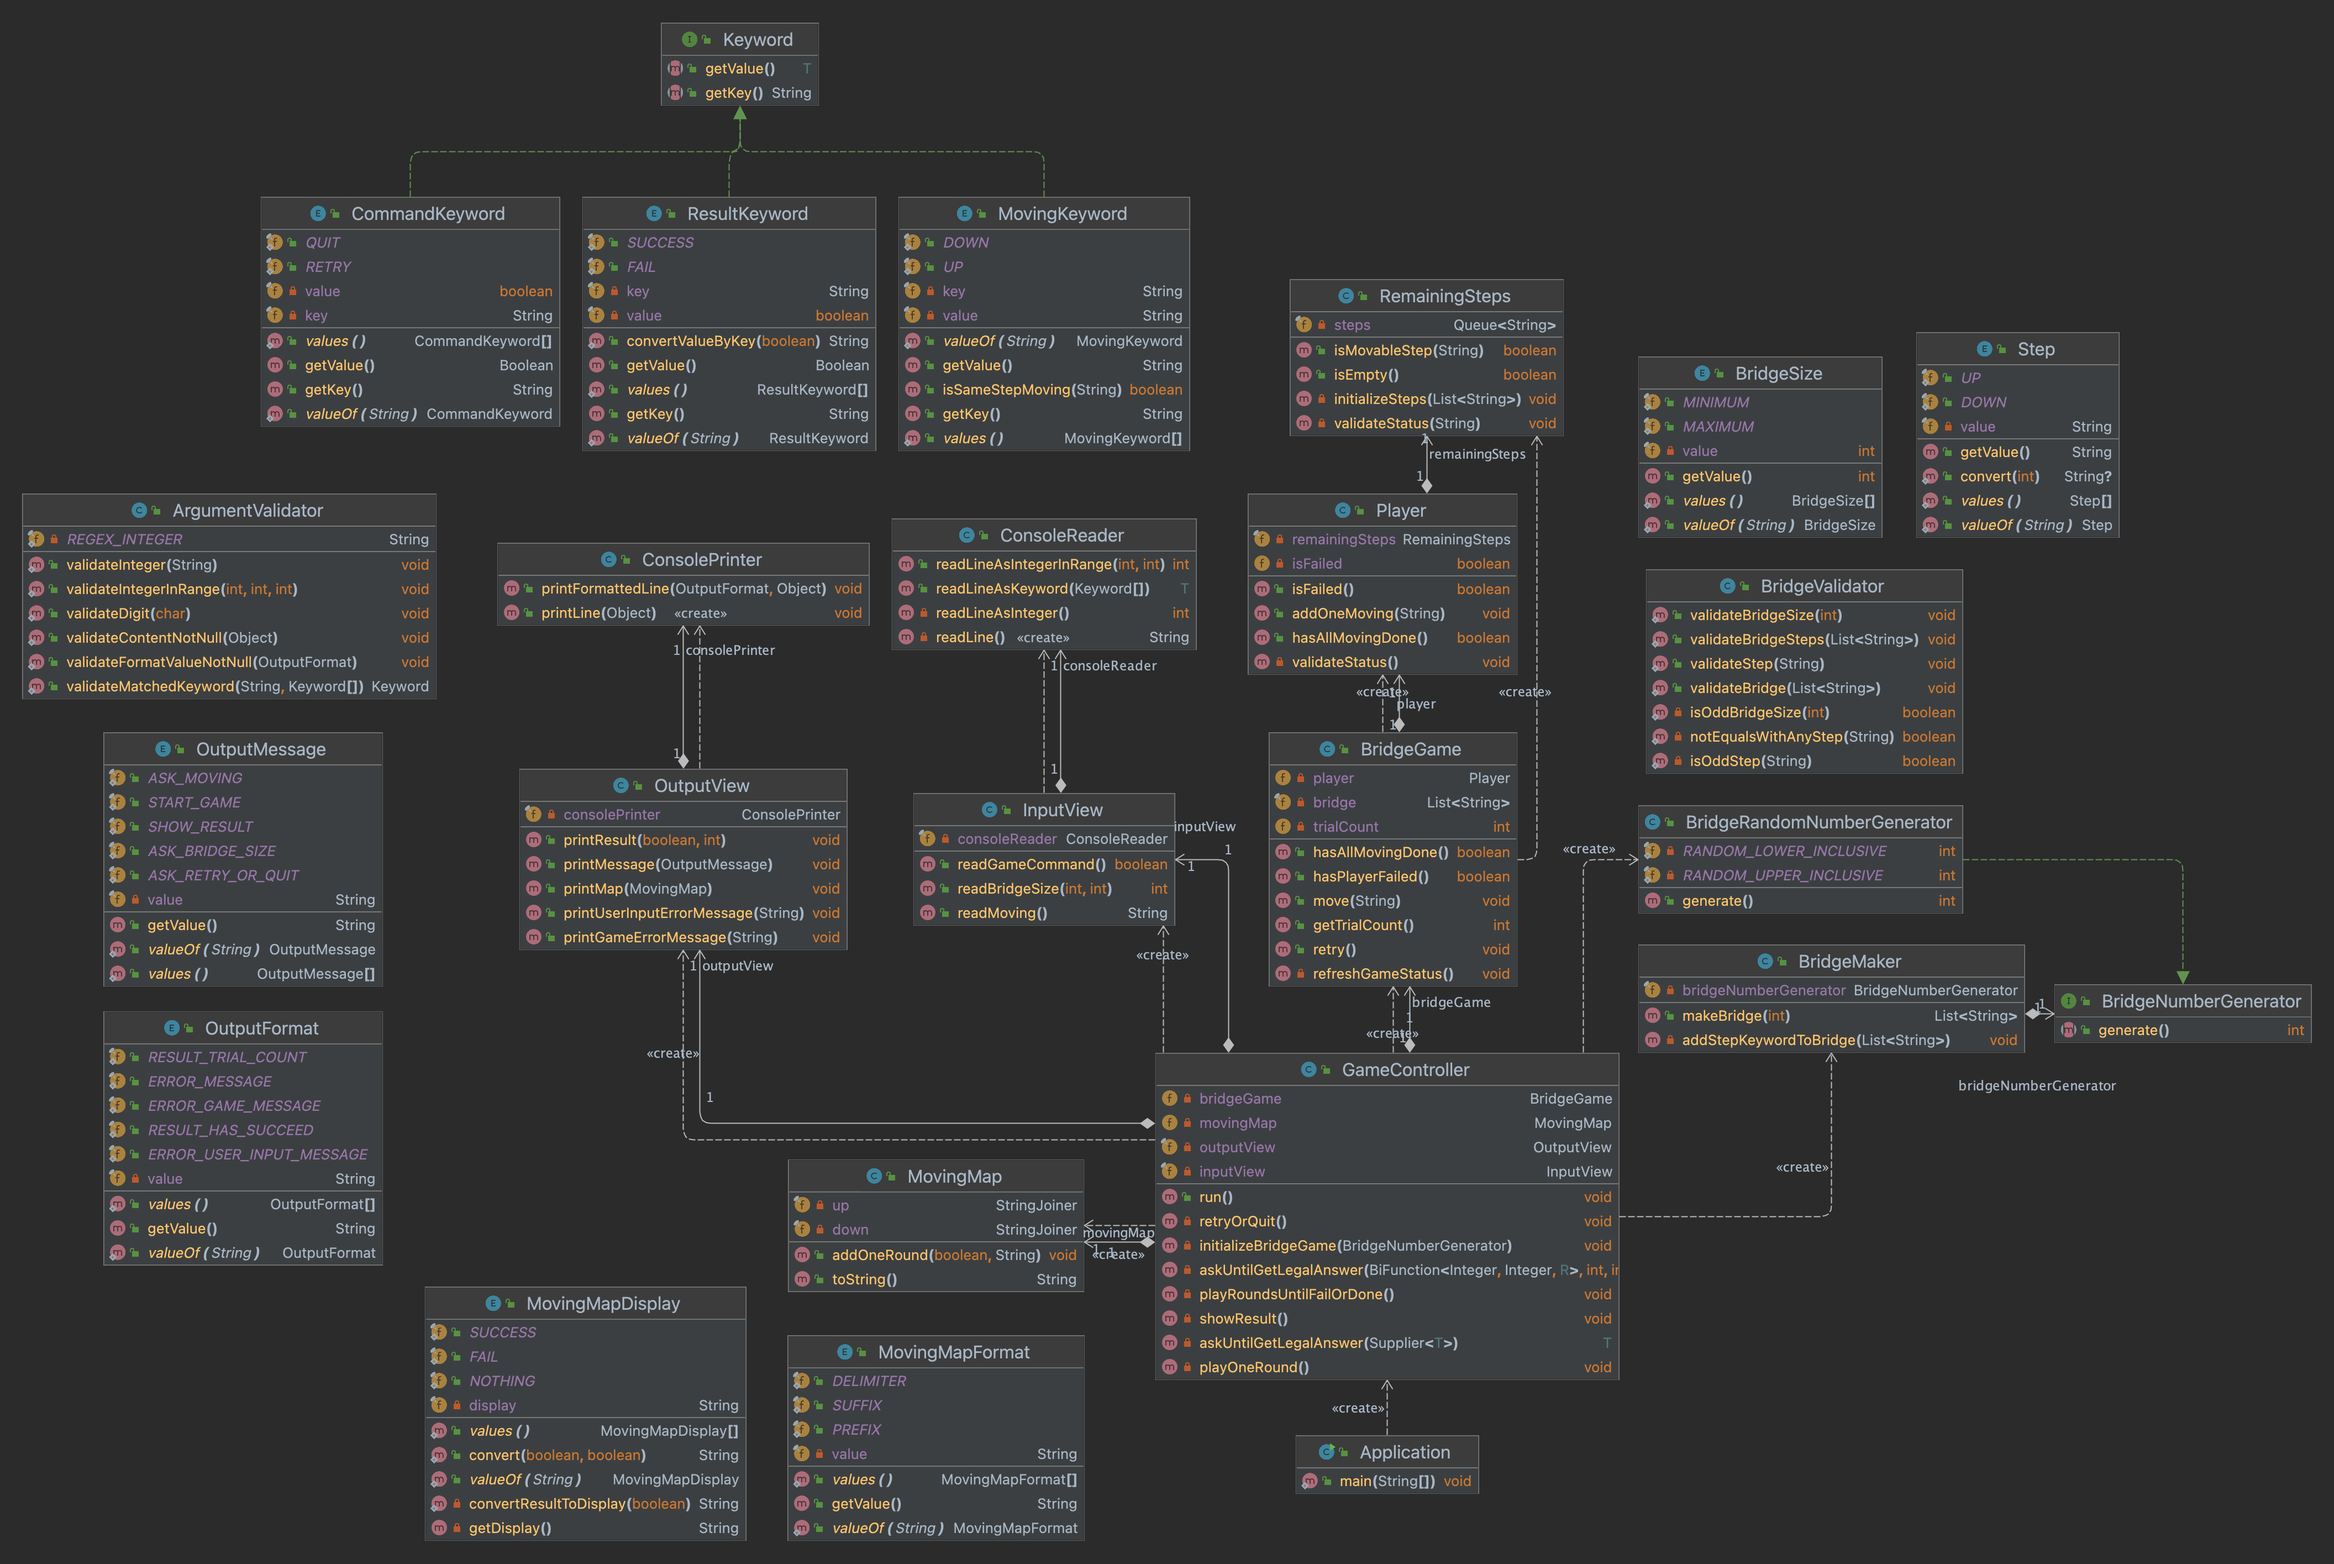
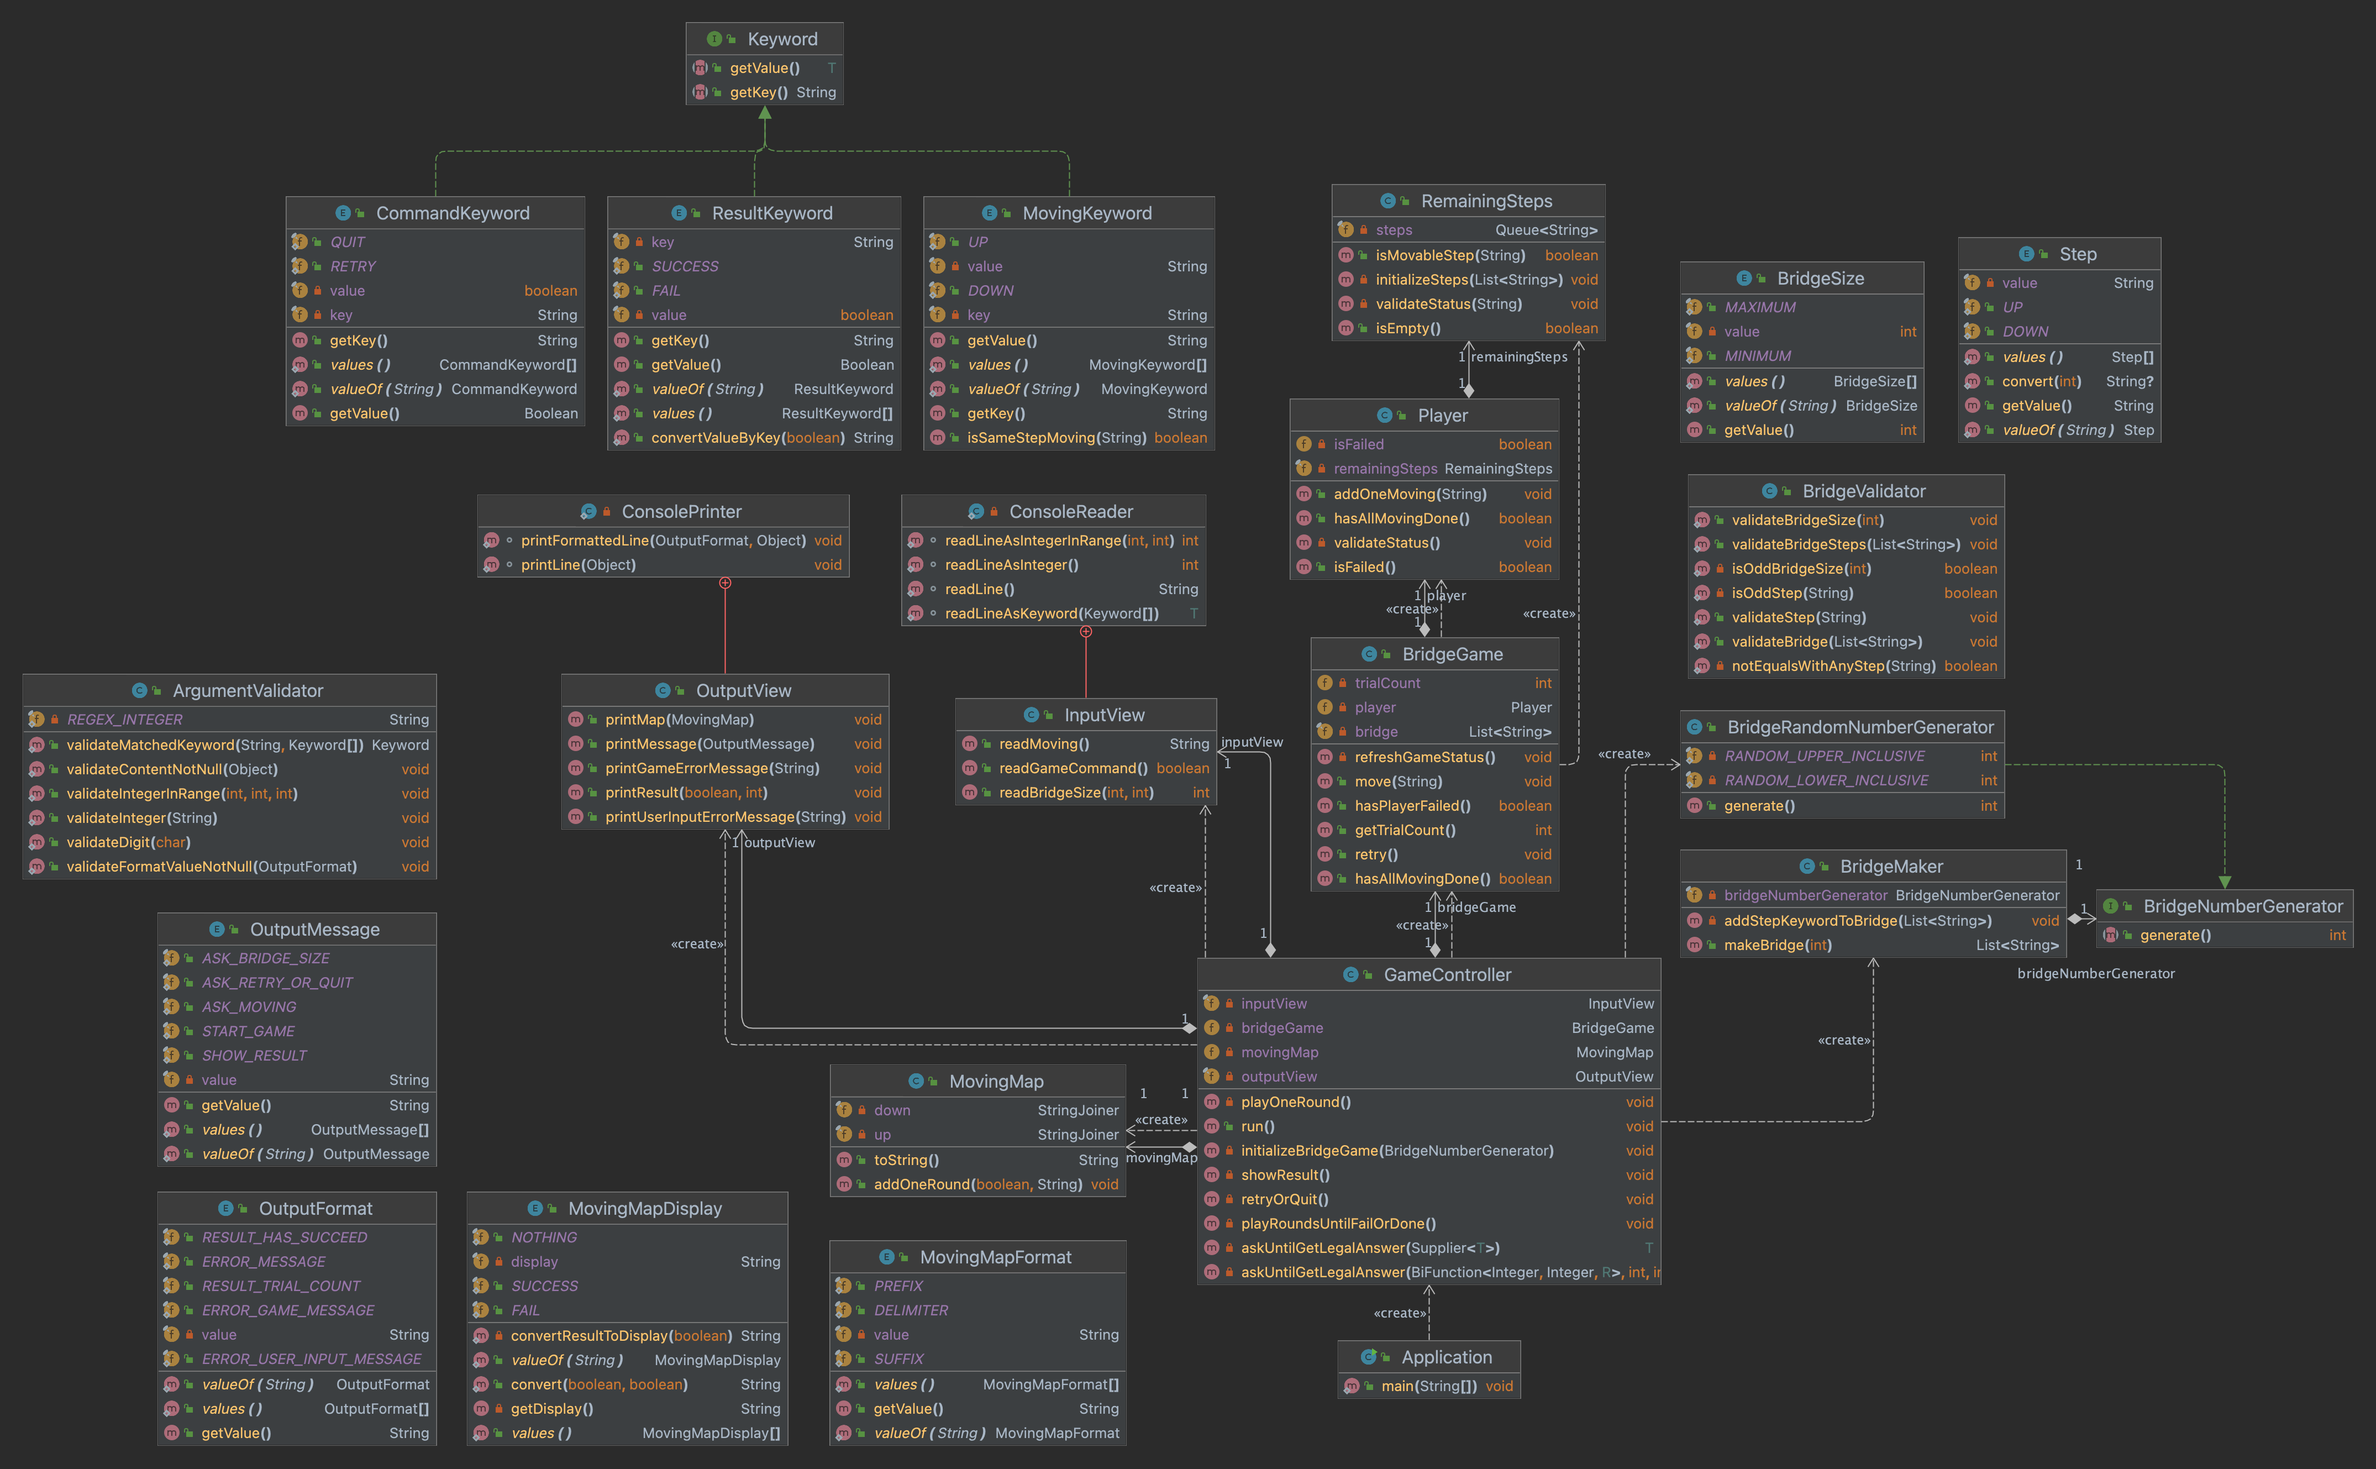
:memo:docs: 최종 PR 제출 시점 클래스 다이어그램 업데이트, 미션 명세서에 초기 다이어그램 추가

Changed region(s): [[0.0, 0.1249, 1.0, 0.9992], [0.2812, 0.0, 0.3438, 0.0937], [0.8438, 0.1561, 0.875, 0.1874]]

diff --git a/docs/README.md b/docs/README.md
@@ -119,6 +119,9 @@
 
 ## 🖋 클래스 설계
 
+### 기능 목록 작성 시 초기 설계안
+![클래스 다이어그램](class-diagram-first.png)
+
 ### 기능 구현 완료 후 클래스 구조
 ![클래스 다이어그램](class-diagram-before.png)
 
@@ -156,7 +159,7 @@
 - [x] 에러메시지는 각 예외를 발생시키는 `BridgeValidator`, `ArgumentValidator` 클래스에서 한 번에 볼 수 있기 때문에 별도 상수 클래스로 분리하지 않기로 함.
 
 ### 테스트 관련
-- [ ] 생각하지 못한 예외 사항 직접 프로그램 실행해보면서 검토 (진행중)
+- [x] 생각하지 못한 예외 사항 직접 프로그램 실행해보면서 검토
 - [x] 추가 예외 사항에 대한 단위 테스트, 기능 테스트 작성
     - [x] 재시도 시 이동 현황 지도 초기화 테스트
     - [x] 이동 현황 지도 갱신 테스트
